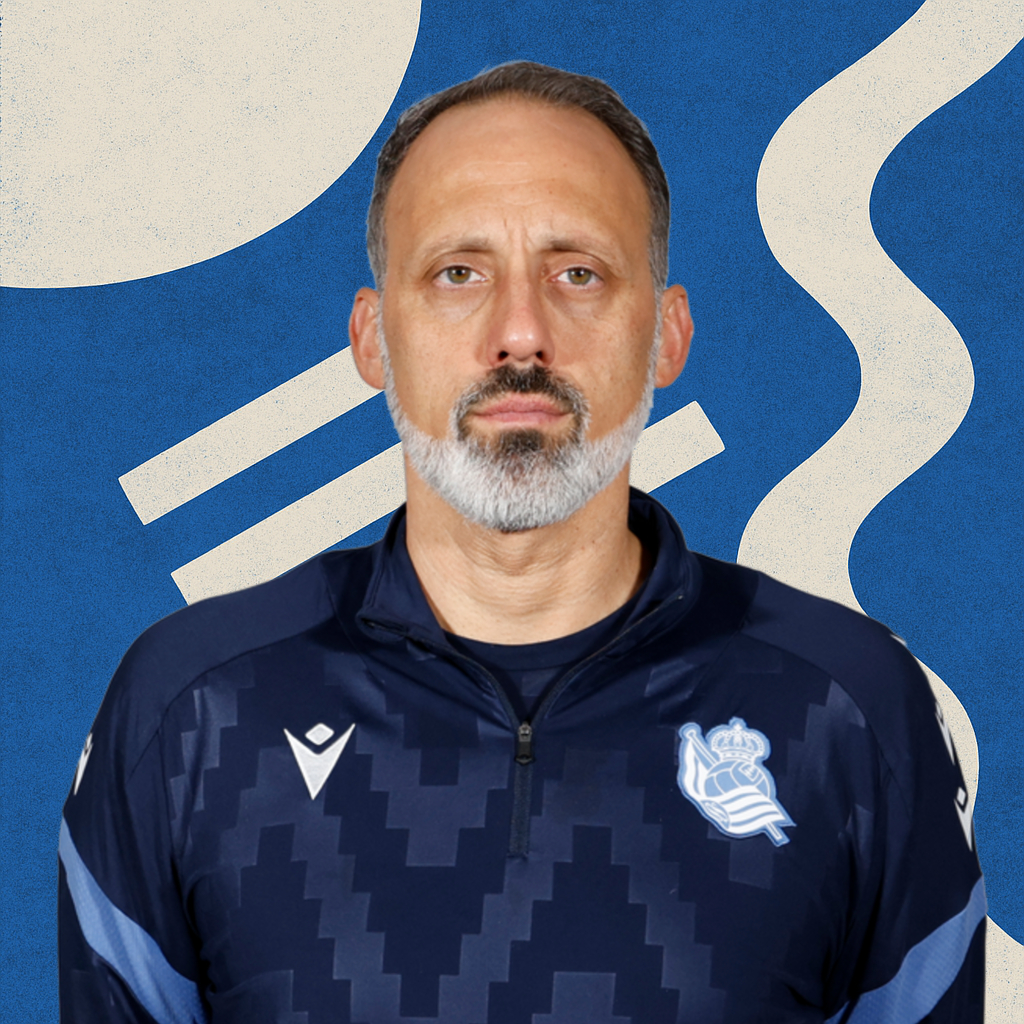
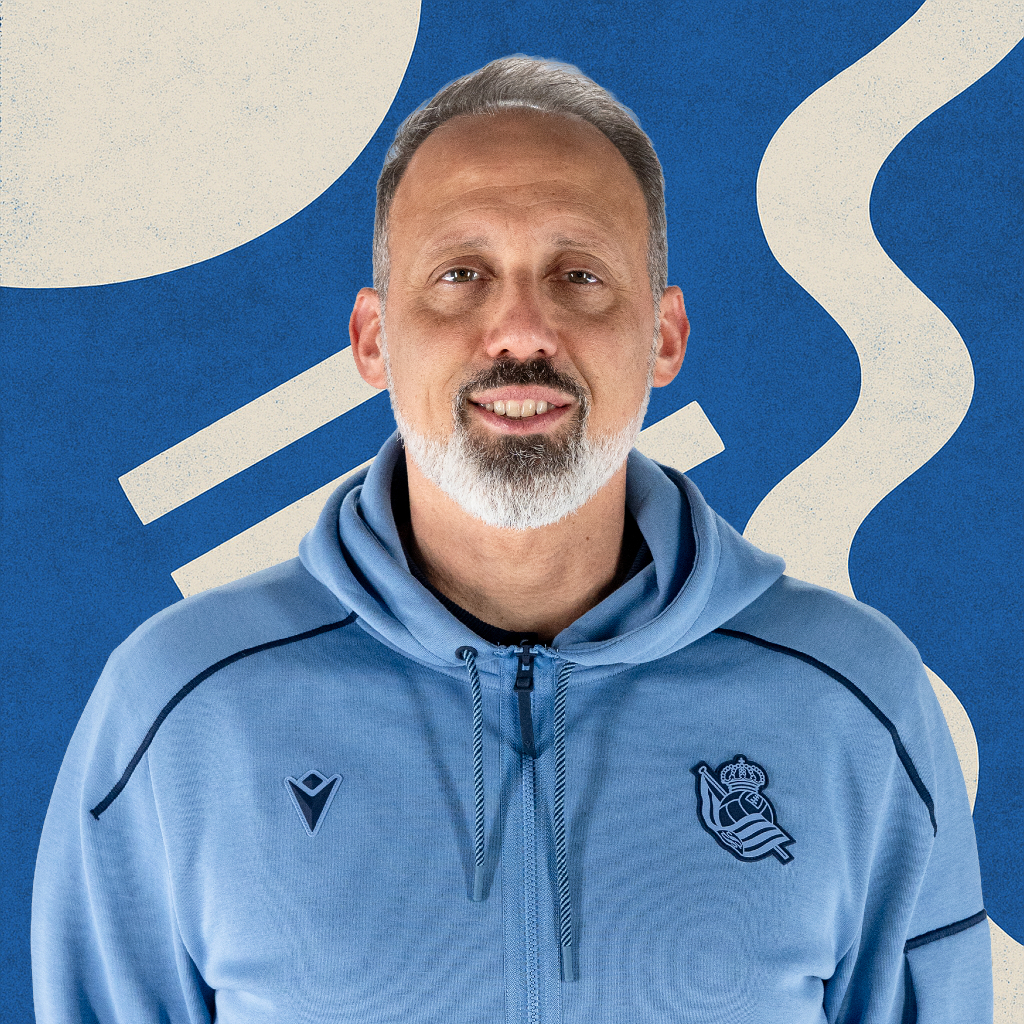
Minor changes

diff --git a/src/merkatuSim.js b/src/merkatuSim.js
@@ -1071,7 +1071,7 @@ function addCustomPlayer() {
           url_name: nombre.replace(/\s+/g, '_').toLowerCase(),
           dorsal: parseInt(dorsal),
           jaioData: jaioData,
-          pais: paisArray.length > 0 ? paisArray : ['España'],
+          pais: paisArray.length > 0 ? paisArray : ["Euskal Herria", "Gipuzkoa"],
           customImageId: imageId,
           tempId: Date.now() + Math.random()
         };
@@ -1094,7 +1094,7 @@ function addCustomPlayer() {
       url_name: nombre.replace(/\s+/g, '_').toLowerCase(),
       dorsal: parseInt(dorsal),
       jaioData: jaioData,
-      pais: paisArray.length > 0 ? paisArray : ['España'],
+      pais: paisArray.length > 0 ? paisArray : ["Euskal Herria", "Gipuzkoa"],
       defaultImage: defaultImage,
       tempId: Date.now() + Math.random()
     };
